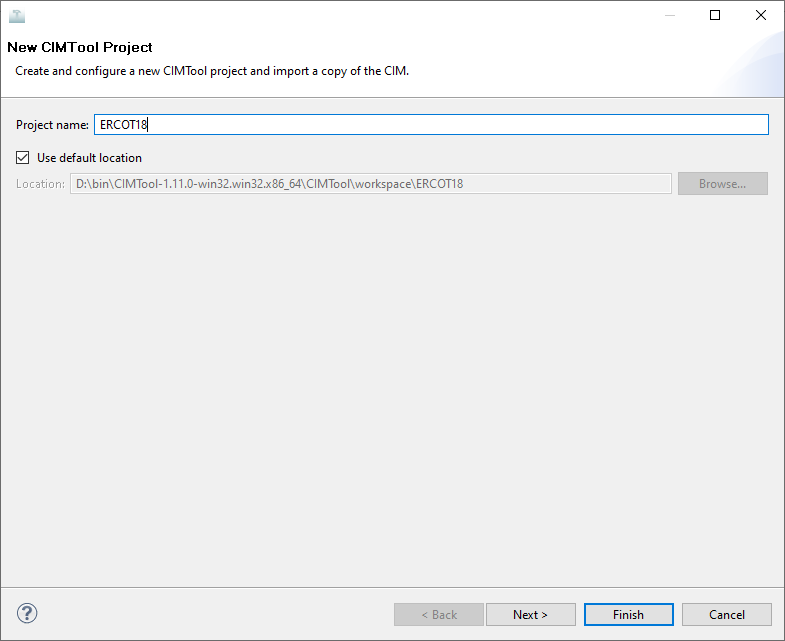
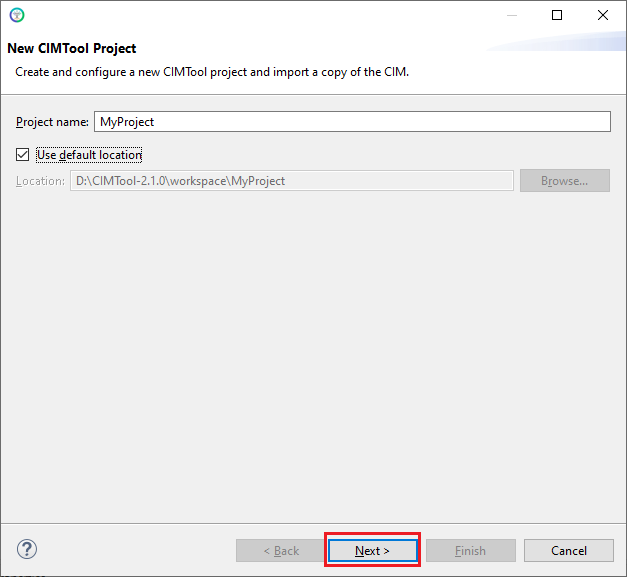
CIMTool website updates

diff --git a/docs/how-to/create-a-project.md b/docs/how-to/create-a-project.md
@@ -3,6 +3,28 @@ To create a new project. Select File -> New -> CIMTool Project.
 
 ![CreateNewProject.png](../images/CreateNewProject.png "Create New Project")
 
-In the dialog box that appears, give it a name (e.g. 'ERCOT18') then click 'Finish'. This will create a new folder in your workspace directory.
+In the dialog box that appears, give it a name (e.g. 'MyProject') then click 'Next'. 
 
 ![ProjectNameLocation.png](../images/ProjectNameLocation.png "Project Name and Location")
+
+In the next dialog box that appears. select whether or not you want to include copyrights within your auto-generated artifacts (e.g. XSD, RDFS, etc.). Here you can load your own custom copyright headers or use the default UCAIug Apache 2.0 copyright headers provided by CIMTool. 
+
+![ProjectCopyrightTemplatesConfig.png](../images/ProjectCopyrightTemplatesConfig.png "Project Copyright Templates")
+
+If you do not require copyrights you can simply select 'Do not include copyrights'and click 'Next' or 'Finish' depending on if you will be specifying a CIM schema for your project at this time or not. It is suggested, but not required, to add your schema while creating your project by clicking 'Next'.
+
+Note:  it is possible to add copyrights later to your project via 'File -> Import...'
+
+![ProjectCopyrightTemplatesConfig2.png](../images/ProjectCopyrightTemplatesConfig2.png "Project Copyright Templates")
+
+Next in the Create New Project wizard you will be asked to specify an initial base schema. Click 'Browse...'.
+
+![ImportInitialSchema.png](../images/ImportInitialSchema.png "Import Initial Schema")
+
+Select the source file you want to use as your schema.  This could be an `.xmi` file or a Sparx EA 15.x `.eap` or 16.x `.qea` project file for example. 
+
+![SelectSchemaFileDialog.png](../images/SelectSchemaFileDialog.png "Select Schema File Dialog")
+
+Last you must declare the namespace URI to be associated with the CIM schema you chose in the previous step. At this point you can select one of the radio buttons to specify a predefined namespace or select the 'Preference' radio button to enter your own. Click the 'Finish' button. A new project folder is created in your CIMTool workspace.
+
+![ImportInitialSchema2.png](../images/ImportInitialSchema2.png "Import Initial Schema")
